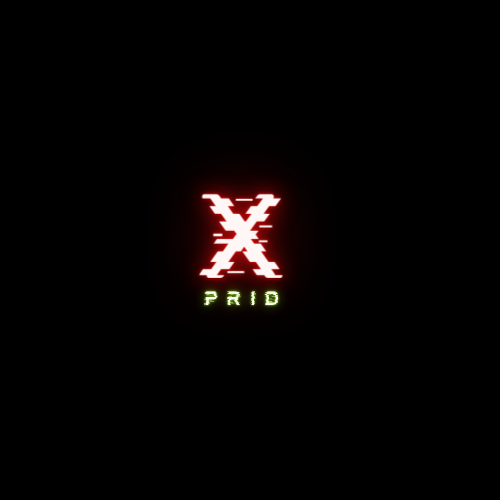
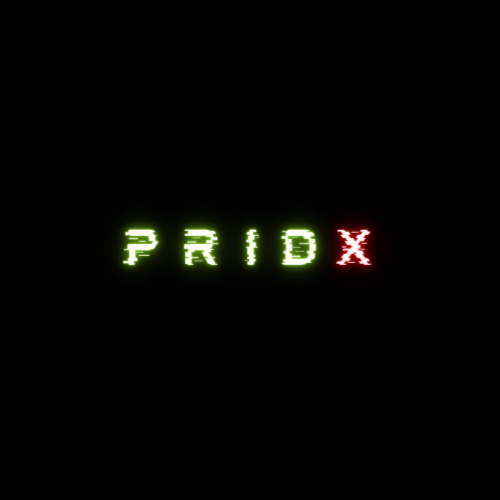
updated the Letspay component and fixed some issues

Changed region(s): [[0.24, 0.36, 0.75, 0.63]]

diff --git a/components/Letsplay.jsx b/components/Letsplay.jsx
@@ -1,10 +1,12 @@
 import React, { useState } from 'react'
-import { Text, View, TextInput, Button, StyleSheet, Image } from 'react-native'
+import { Text, View, TextInput, Button, StyleSheet, Image,ImageBackground } from 'react-native'
 
-const ranum = Math.floor((Math.random() * 100) + 1);
+const harsh = Math.floor((Math.random() * 100) + 1);
 
 const Letsplay = ({ navigation }) => {
-    // const ranum = 50;
+
+    const yash = Math.floor((Math.random() * 100) + 1);
+    const [ranum, setranum] = useState(harsh)
     const [number, setNumber] = useState('')
     const [gameText, setGameText] = useState('Guess The Number...?')
     const [count, setCount] = useState(0)
@@ -32,6 +34,8 @@ const Letsplay = ({ navigation }) => {
                     navigation.navigate("Win", { count, numarray });
                     setCount(0);
                     setNumarray([]);
+                    setGameText('Guess The Number...?');
+                    setranum(yash);
                 }
             }
             else {
@@ -42,27 +46,27 @@ const Letsplay = ({ navigation }) => {
     }
 
     return (
-       <>
-        <View style={styles.container}>
-             <View style={styles.Img2}>
-               <Image style={{width:290,height:190}} source={require('../Image/i.gif')}/>
+        <>
+            <View style={styles.Img2}>
+               <ImageBackground style={{width:299,height:130,marginTop:20}} source={require('../Image/31.gif')}/>
         </View>
-               </View>
-        <View style={styles.container2}>
-            <Text style={styles.text2}>{gameText}</Text>
-            <Text style={styles.emoji}>
-                {number.split(' ').map((word) => word && '🤔').join(' ')}
-            </Text>
-            <Text style={{ fontSize: 9 , color: 'red', marginBottom:6 }}>Guess the number between 0 - 100</Text>
-            <TextInput style={styles.inputbox} onChangeText={newNumber => setNumber(newNumber)} defaultValue={number} keyboardType={'numeric'} />
-            <Text style={styles.array1}>[
-                {numarray.map((a, index) => {
-                    return <Text key={index} style={styles.array1}> {a} </Text>
-                })} ]
-            </Text>
-            <View style={styles.btn1}>
-                <Button title='Guess' color={'#0be0ab'} onPress={logic} />
-            </View></View></>
+            <View style={styles.container2}>
+                <Text style={styles.text2}>{gameText}</Text>
+                <Text style={styles.emoji}>
+                    {number.split(' ').map((word) => word && '🤔').join(' ')}
+                </Text>
+                <Text style={{ fontSize: 12, color: 'yellow', marginBottom: 6 }}>Guess the number From 0 - 100</Text>
+                <TextInput style={styles.inputbox} onChangeText={newNumber => setNumber(newNumber)} defaultValue={number} keyboardType={'numeric'} />
+                <Text style={styles.array1}>[
+                    {numarray.map((a, index) => {
+                        return <Text key={index} style={styles.array1}> {a} </Text>
+                    })} ]
+                </Text>
+                <View style={styles.btn1}>
+                    <Button title='Guess' color={'#0be0ab'} onPress={logic} />
+                </View>
+            </View>
+        </>
     )
 }
 
@@ -72,12 +76,13 @@ const styles = StyleSheet.create({
     container: {
         flex: 1,
         backgroundColor: "black",
-        alignItems: "center",
+        alignItems: "center"
     },
     container2: {
         flex: 2,
         backgroundColor: "black",
         alignItems: "center",
+        justifyContent: "center"
     },
     text1: {
         fontSize: 50,
@@ -87,13 +92,13 @@ const styles = StyleSheet.create({
         borderBottomColor: 'red'
     },
     text2: {
-        marginTop: 25,
+        marginTop: 20,
         padding: 8,
         fontSize: 25,
         color: '#0be0ab',
         borderWidth: 2,
         borderColor: '#0be0ab',
-        borderRadius:12,
+        borderRadius: 12,
         width: 300,
         textAlign: "center"
     },
@@ -110,7 +115,7 @@ const styles = StyleSheet.create({
         color: "yellow",
         borderWidth: 2,
         borderColor: 'red',
-        borderRadius:10,
+        borderRadius: 10,
         width: 150,
         height: 50,
         textAlign: 'center'
@@ -127,8 +132,10 @@ const styles = StyleSheet.create({
         borderWidth: 8,
         borderColor: '#0be0ab',
         borderRadius: 25,
-    },Img2:{
-        marginTop:50
+    }, Img2: {
+        alignItems:"center",
+        backgroundColor:"black",
+        
     }
 
 })

diff --git a/components/Game.jsx b/components/Game.jsx
@@ -1,30 +1,24 @@
 import React from 'react'
-import { View, Text, StyleSheet, Image,TouchableOpacity } from 'react-native'
+import { View, Text, StyleSheet, Image, TouchableOpacity } from 'react-native'
 
-const Game = ({navigation}) => {
+const Game = ({ navigation }) => {
     return (
         <>
             <View style={styles.container}>
-               {/* <View style={{flexDirection:'row'}}>
-               <Text style={styles.text1}>Prid</Text>
-               <Text style={[styles.text1,{color:'red'}]}>X</Text> */}
-               {/* <View style={{width:30,height:30}}> */}
-               <View style={styles.Img2}>
-               <Image style={{width:290,height:290}} source={require('../Image/i.gif')}/>
-               </View>
-             {/* </View> */}
-                {/* <Text style={styles.text2}>The Number Guessing Game</Text>  */}
+                <View style={styles.Img2}>
+                    <Image style={{ width: 290, height: 290 }} source={require('../Image/i.gif')} />
+                </View>
             </View>
             <View style={styles.container2}>
                 <Text style={styles.text3}>How to Play</Text>
-                <Text style={styles.text2}>1. A Random number wil Generated. </Text>
+                <Text style={styles.text2}>1. A Random number will Generated. </Text>
                 <Text style={styles.text2}>2. You have to guess what is the Number  </Text>
                 <Text style={styles.text2}>3. Hint's Will be given</Text>
                 <Text style={styles.text2}>4. You have to input your number in the input box </Text>
                 <Text style={styles.text2}>5. Click on Lets Play To Start  </Text>
                 <View style={styles.container3}>
-                <TouchableOpacity style={styles.button} onPress={() => { navigation.navigate("Letsplay") }}>
-                    <Image style={styles.Img1} source={require('../Image/button.jpeg')} />
+                    <TouchableOpacity style={styles.button} onPress={() => { navigation.navigate("Letsplay") }}>
+                        <Image style={styles.Img1} source={require('../Image/button.jpeg')} />
                     </TouchableOpacity>
                 </View>
             </View>
@@ -70,7 +64,7 @@ const styles = StyleSheet.create({
         marginBottom: 12,
         borderBottomWidth: 2,
         borderBottomColor: "#0be0ab",
-        marginHorizontal:120
+        marginHorizontal: 120
     },
     text4: {
         fontSize: 20,
@@ -84,7 +78,7 @@ const styles = StyleSheet.create({
     Img1: {
         borderWidth: 2,
         borderColor: "#0be0ab",
-        marginTop:120,
+        marginTop: 120,
         borderRadius: 15,
         width: 270,
         height: 50

diff --git a/components/Logo.jsx b/components/Logo.jsx
@@ -1,6 +1,11 @@
 import React from 'react'
-import { Image,Alert,BackHandler,TouchableOpacity } from 'react-native'
+import { Image,Alert,BackHandler,TouchableOpacity, DevSettings } from 'react-native'
 import { View } from 'react-native';
+
+function exit() {
+  BackHandler.exitApp();
+  DevSettings.reload();
+}
 
 const backPressed = () => {
     Alert.alert(
@@ -12,15 +17,16 @@ const backPressed = () => {
           onPress: () => console.log("Cancel Pressed"),
           style: "cancel",
         },
-        { text: "Yes", onPress: () => BackHandler.exitApp() },
+        { text: "Yes", onPress:exit},
       ],
       { cancelable: false }
     );
     return true;
   };
+
 const Logo = () => {
   return (
-<TouchableOpacity onPress={backPressed}>
+<TouchableOpacity onPress={backPressed}> 
 <View style={{borderWidth:1,borderColor:'red',borderRadius:2,padding:5}}>
     <Image style={{width:42,height:30}} source={require('../Image/logo.png')}/>
 </View>

diff --git a/App.js b/App.js
@@ -32,7 +32,7 @@ const App = () => {
             headerStyle: {
               backgroundColor: "black",
             },
-            headerRight: () => <Logo/>
+            headerRight: () => <Logo />,
           }}
         />
         <Stack.Screen
@@ -44,7 +44,7 @@ const App = () => {
             headerStyle: {
               backgroundColor: "black",
             },
-            headerRight: () => <Logo/>
+            headerRight: () => <Logo />,
           }}
         />
       </Stack.Navigator>
